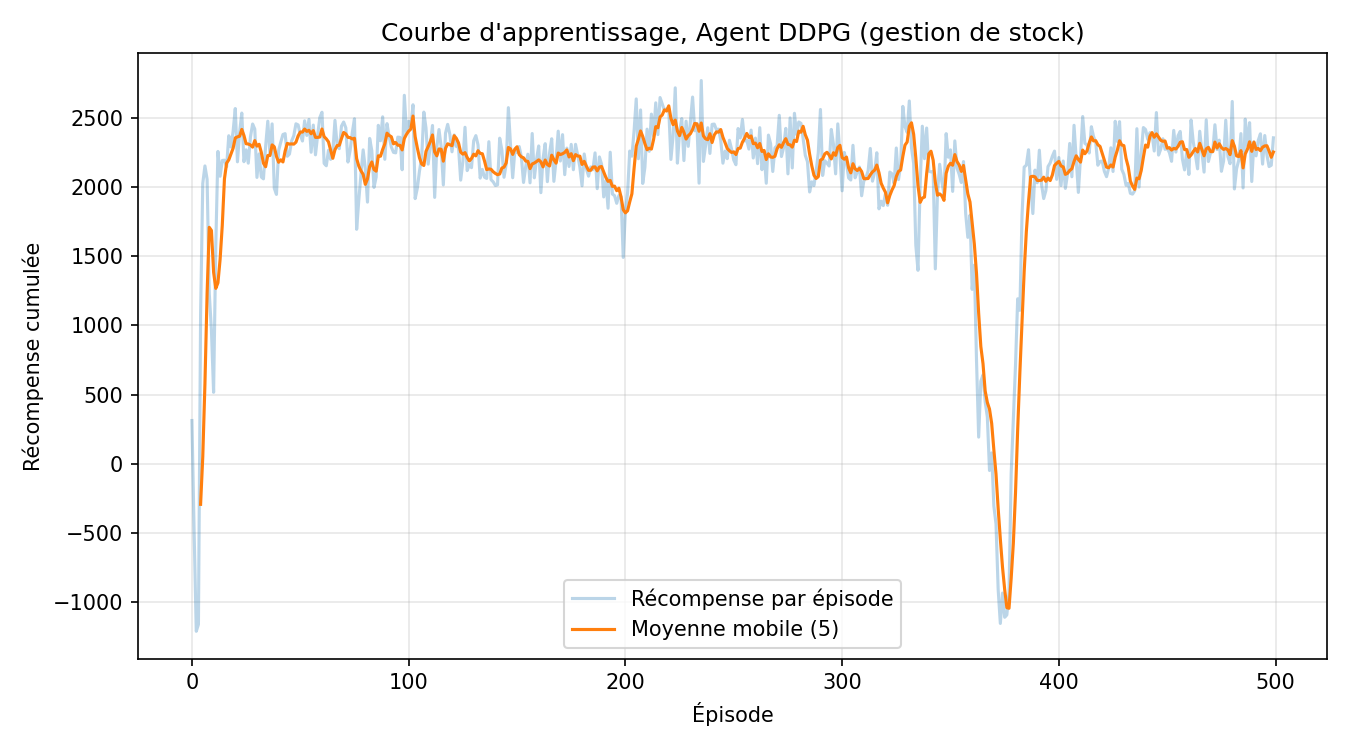
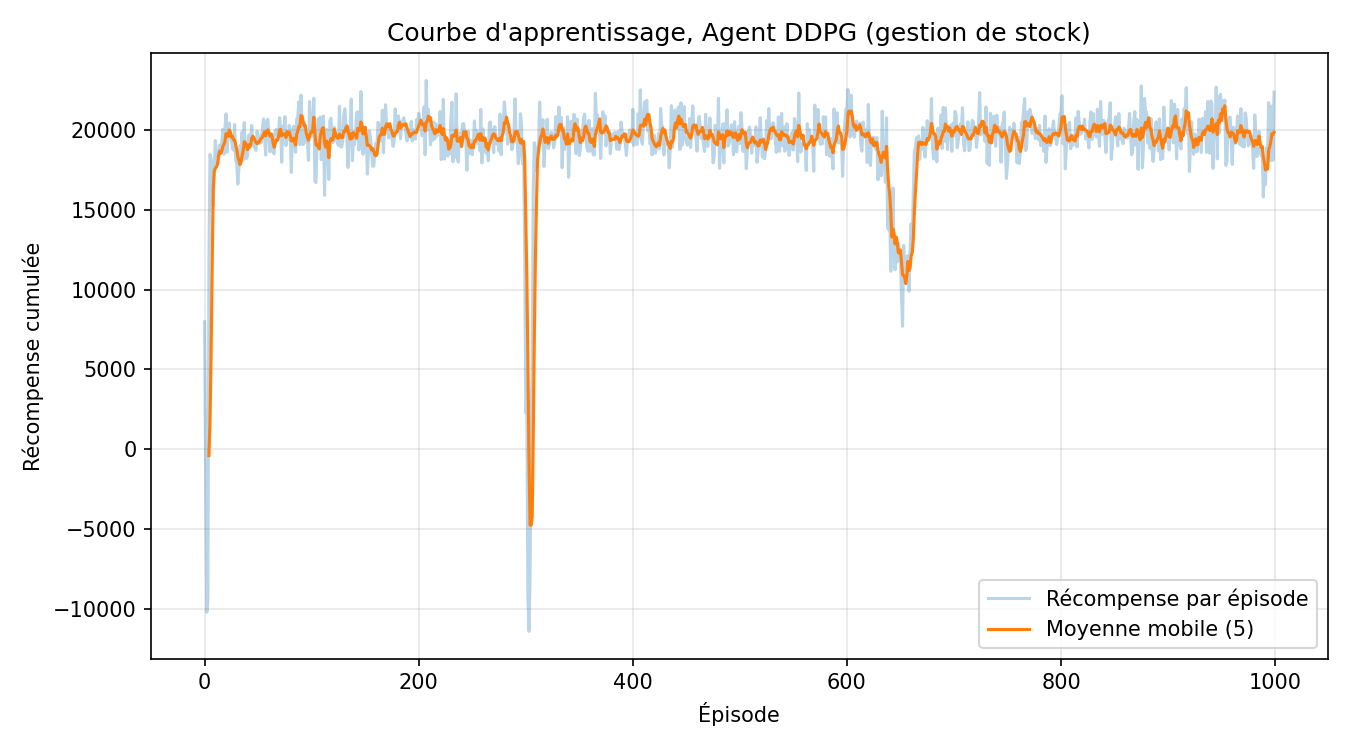
gradient clipping DDPG, reward scaling, MAX_ORDER, seed reproductibilité

diff --git a/agent/ddpg.py b/agent/ddpg.py
@@ -159,12 +159,14 @@ class DDPGAgent:
 
         self.critic_optimizer.zero_grad()
         critic_loss.backward()
+        torch.nn.utils.clip_grad_norm_(self.critic.parameters(), max_norm=1.0)
         self.critic_optimizer.step()
 
         actor_loss = -self.critic(state, self.actor(state)).mean()
 
         self.actor_optimizer.zero_grad()
         actor_loss.backward()
+        torch.nn.utils.clip_grad_norm_(self.actor.parameters(), max_norm=1.0)
         self.actor_optimizer.step()
 
         self._soft_update(self.actor, self.actor_target)

diff --git a/env/inventory_env.py b/env/inventory_env.py
@@ -4,7 +4,7 @@ import pandas as pd
 
 class InventoryEnv:
     MAX_INVENTORY = 1000.0
-    MAX_ORDER = 300.0
+    MAX_ORDER = 200.0
     EPISODE_LENGTH = 365  
     CH_RATE = 0.20 
 
@@ -86,7 +86,7 @@ class InventoryEnv:
         holding_cost = next_inventory * ch
         stockout_cost = lost_sales * cp
 
-        reward = (revenue - holding_cost - stockout_cost) / 1000.0
+        reward = (revenue - holding_cost - stockout_cost) / 100.0
 
         self.inventory = next_inventory
         self.t += 1
